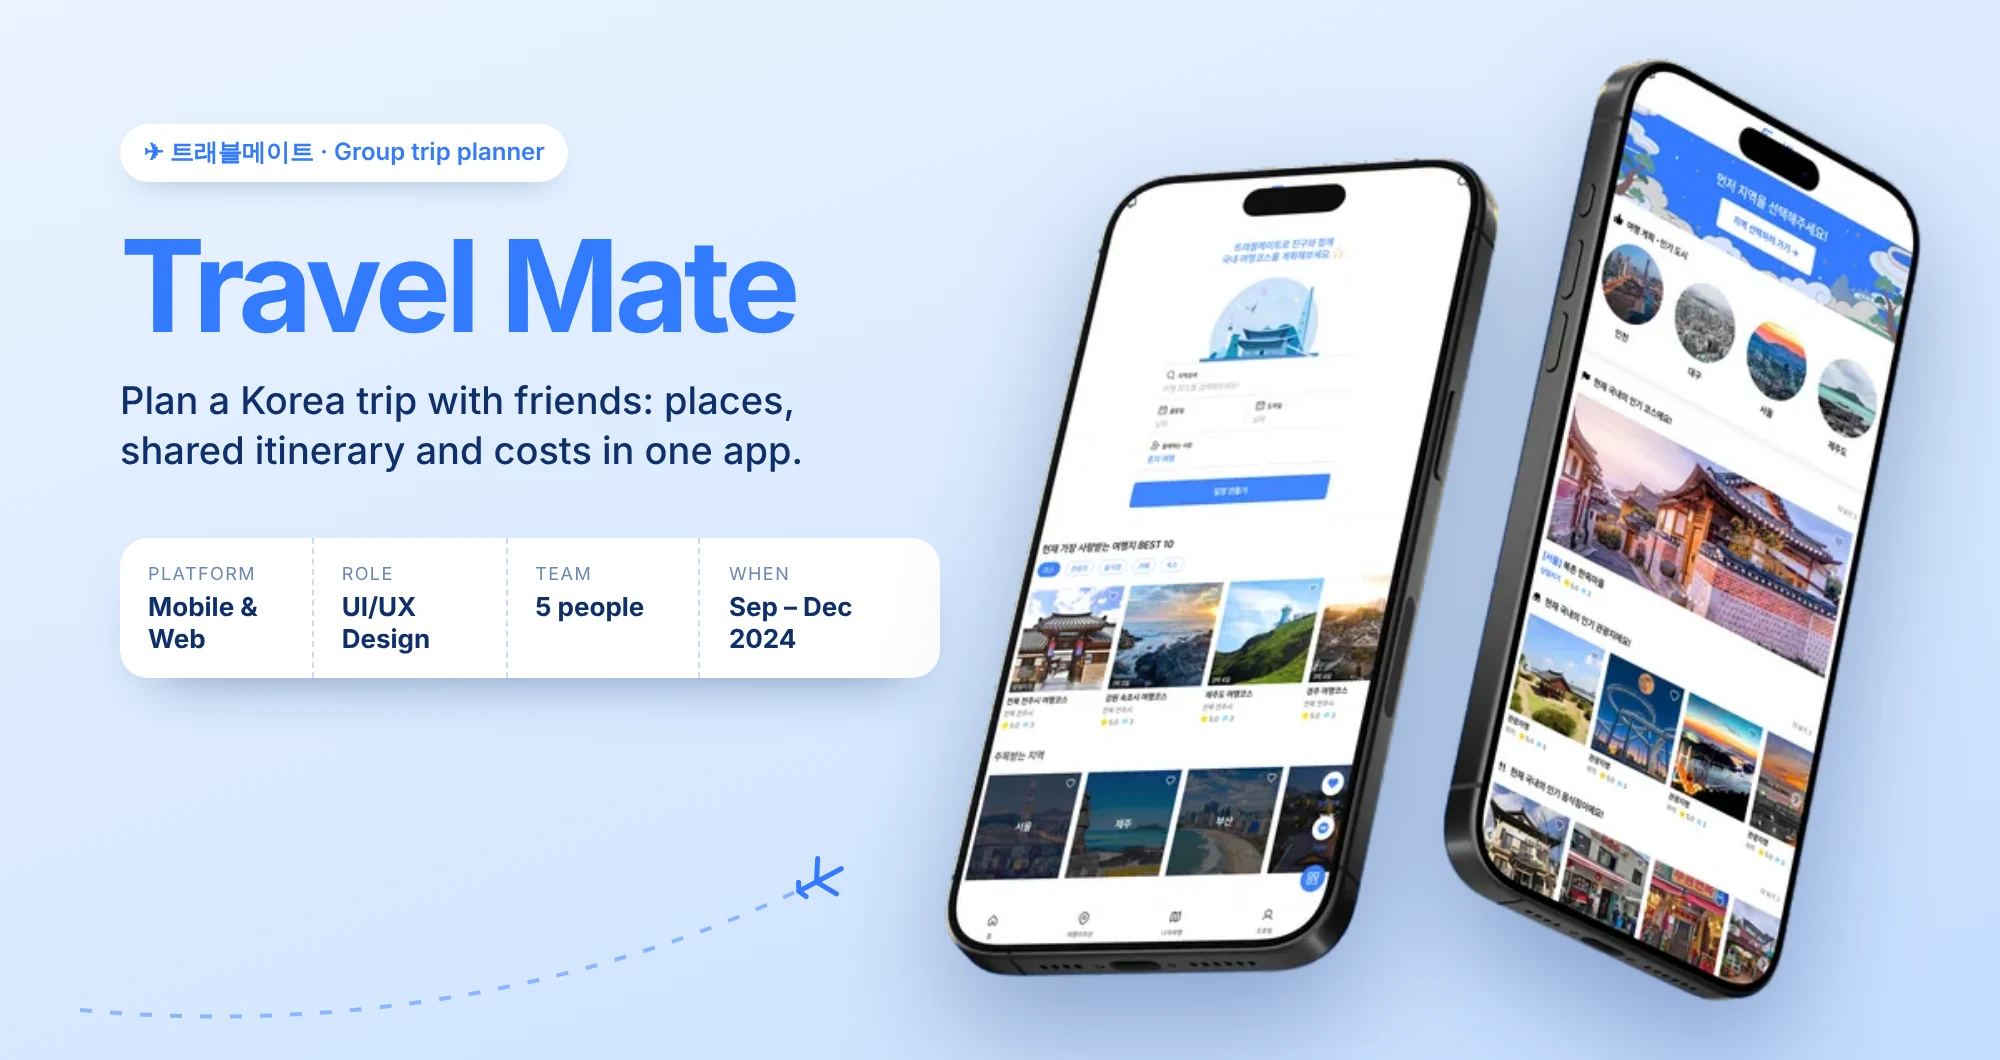
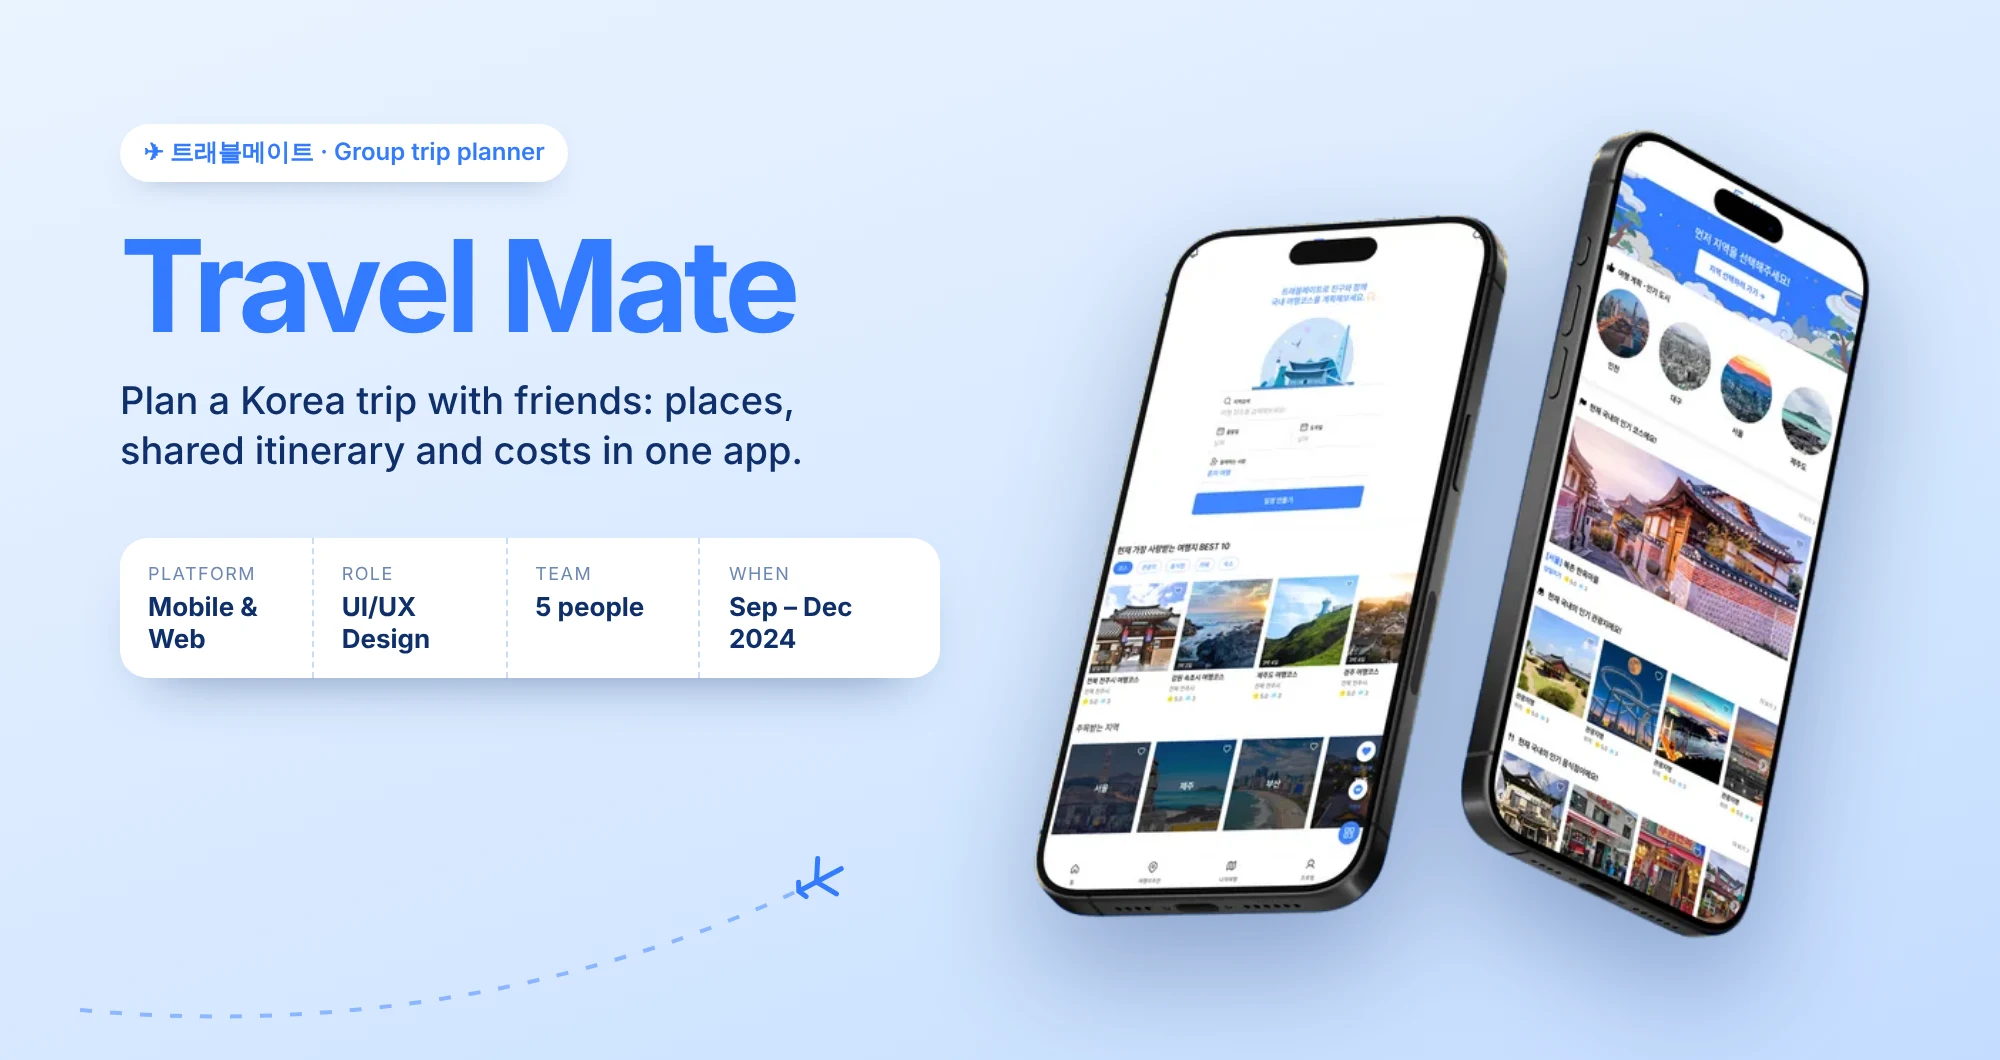
Shrink Travel Mate cover phones for better spacing
Claude-Session: https://claude.ai/code/session_01XrSCNk8CdZFL88DQkgrBgR

Changed region(s): [[0.465, 0.0311, 0.961, 0.9962]]

diff --git a/ux.html b/ux.html
@@ -27,7 +27,7 @@
 <main class="page page-page" id="ux">
 <div class="page-content">
 <header class="cs-head"><h1 class="cs-title">UX Design<span class="dot">.</span></h1><p class="cs-sub">Case studies in research, product design and building, from internships, leadership roles and team projects.</p></header>
-<div class="gproj-list gproj-list--stack"><a class="gproj" href="now-institute.html"><div class="gproj-cover gproj-cover--bleed" style="aspect-ratio:2000/1060"><img alt="Now Institute cover" loading="lazy" onerror="this.hidden=true" src="images/index/01-screenshot-2026-07-07-at-2.21.54pm.webp"/></div><div class="gproj-txt"><span class="gproj-n">(01)</span><h2 class="gproj-t">Now Institute</h2><p class="gproj-sub">Two websites for Morphosis Architects’ urban research wing</p><p class="gproj-d">Designed and vibe-coded Noto Now and the Now Institute site, from research on every project to two live launches.</p><dl class="gproj-meta"><dt>Year</dt><dd>May – Jul 2026</dd><dt>Role</dt><dd>UX Design Intern, Morphosis</dd><dt>Tools</dt><dd>Figma, Claude Code, Vercel</dd></dl><div class="gproj-strip" style="grid-template-columns:177.78fr 166.67fr"><img alt="" loading="lazy" src="images/now-institute/02-screenshot-2026-07-13-at-3.52.46pm.webp" style="aspect-ratio:1.7778"/><img alt="" loading="lazy" src="images/now-institute/04-notonow.png" style="aspect-ratio:1.6667"/></div><span class="gproj-go">View case study →</span></div></a><a class="gproj" href="hfes-stg.html"><div class="gproj-cover gproj-cover--bleed" style="aspect-ratio:2000/1000"><img alt="HFES STG cover" loading="lazy" onerror="this.hidden=true" src="images/index/cover-hfes-stg.webp"/></div><div class="gproj-txt"><span class="gproj-n">(02)</span><h2 class="gproj-t">HFES STG</h2><p class="gproj-sub">A website for the Sustainability Technical Group</p><p class="gproj-d">Led a volunteer team from a 200+ member survey through card sorting, testing and launch.</p><dl class="gproj-meta"><dt>Year</dt><dd>Aug 2025 – May 2026</dd><dt>Role</dt><dd>Website Lead</dd><dt>Methods</dt><dd>Survey, card sort, usability tests</dd></dl><div class="gproj-strip" style="grid-template-columns:196.46fr 133.78fr"><img alt="" loading="lazy" src="images/hfes-stg/04-screenshot-2026-03-27-at-3.34.46pm.png" style="aspect-ratio:1.9646"/><img alt="" loading="lazy" src="images/hfes-stg/06-wireframes.png" style="aspect-ratio:1.3378"/></div><span class="gproj-go">View case study →</span></div></a><a class="gproj" href="migrant-compass.html"><div class="gproj-cover gproj-cover--bleed" style="aspect-ratio:1920/940"><img alt="Migrant Compass cover" loading="lazy" onerror="this.hidden=true" src="images/index/05-title-page1.webp?v=2"/></div><div class="gproj-txt"><span class="gproj-n">(03)</span><h2 class="gproj-t">Migrant Compass</h2><p class="gproj-sub">Real-time guidance for migrants</p><p class="gproj-d">An offline-ready app giving migrants verified safety updates and resources, built at the IDEA Lab @ Fletcher.</p><dl class="gproj-meta"><dt>Year</dt><dd>Sep – Nov 2025</dd><dt>Role</dt><dd>UX research & design</dd><dt>Tools</dt><dd>Figma</dd></dl><div class="gproj-strip" style="grid-template-columns:50.96fr 51.02fr 51.02fr 45.40fr"><img alt="" loading="lazy" src="images/migrant-compass/06-migrant-compass-mobile-app-wireframe.png" style="aspect-ratio:0.5096"/><img alt="" loading="lazy" src="images/migrant-compass/15-migrant-compass-mobile-app-wireframe.png" style="aspect-ratio:0.5102"/><img alt="" loading="lazy" src="images/migrant-compass/19-w.png" style="aspect-ratio:0.5102"/><img alt="" loading="lazy" src="images/migrant-compass/21-4.png" style="aspect-ratio:0.4540"/></div><span class="gproj-go">View case study →</span></div></a><a class="gproj" href="travel-mate.html"><div class="gproj-cover gproj-cover--bleed" style="aspect-ratio:2000/1060"><img alt="Travel Mate cover" loading="lazy" onerror="this.hidden=true" src="images/index/cover-travel-mate.webp?v=4"/></div><div class="gproj-txt"><span class="gproj-n">(04)</span><h2 class="gproj-t">Travel Mate</h2><p class="gproj-sub">Group travel planning app</p><p class="gproj-d">Search, shared itineraries and expenses for planning a Korea trip with friends, designed with developers.</p><dl class="gproj-meta"><dt>Year</dt><dd>Sep – Dec 2024</dd><dt>Role</dt><dd>UX design, design system</dd><dt>Team</dt><dd>3 designers, 2 developers</dd></dl><div class="gproj-strip" style="grid-template-columns:83.95fr 78.85fr 134.05fr"><img alt="" loading="lazy" src="images/travel-mate/08-ia.png" style="aspect-ratio:0.8395"/><img alt="" loading="lazy" src="images/travel-mate/31-sheet-stay-dates.webp" style="aspect-ratio:0.7885"/><img alt="" loading="lazy" src="images/travel-mate/32-sheet-trip-dates.webp" style="aspect-ratio:1.3405"/></div><span class="gproj-go">View case study →</span></div></a><a class="gproj" href="trendy.html"><div class="gproj-cover gproj-cover--bleed" style="aspect-ratio:1500/734"><img alt="Trendy cover" loading="lazy" onerror="this.hidden=true" src="images/trendy/01-trendy.webp?v=2"/></div><div class="gproj-txt"><span class="gproj-n">(05)</span><h2 class="gproj-t">Trendy</h2><p class="gproj-sub">Beauty & fashion trend app</p><p class="gproj-d">A solo project taking a trend-shopping app from interviews and competitor research to brand and UI.</p><dl class="gproj-meta"><dt>Year</dt><dd>Jun – Aug 2024</dd><dt>Role</dt><dd>Solo designer</dd><dt>Methods</dt><dd>Interviews, journey map</dd></dl><div class="gproj-strip" style="grid-template-columns:196.42fr 167.52fr"><img alt="" loading="lazy" src="images/trendy/05-persona.webp?v=2" style="aspect-ratio:1.9642"/><img alt="" loading="lazy" src="images/trendy/10-final-screens.webp" style="aspect-ratio:1.6752"/></div><span class="gproj-go">View case study →</span></div></a></div>
+<div class="gproj-list gproj-list--stack"><a class="gproj" href="now-institute.html"><div class="gproj-cover gproj-cover--bleed" style="aspect-ratio:2000/1060"><img alt="Now Institute cover" loading="lazy" onerror="this.hidden=true" src="images/index/01-screenshot-2026-07-07-at-2.21.54pm.webp"/></div><div class="gproj-txt"><span class="gproj-n">(01)</span><h2 class="gproj-t">Now Institute</h2><p class="gproj-sub">Two websites for Morphosis Architects’ urban research wing</p><p class="gproj-d">Designed and vibe-coded Noto Now and the Now Institute site, from research on every project to two live launches.</p><dl class="gproj-meta"><dt>Year</dt><dd>May – Jul 2026</dd><dt>Role</dt><dd>UX Design Intern, Morphosis</dd><dt>Tools</dt><dd>Figma, Claude Code, Vercel</dd></dl><div class="gproj-strip" style="grid-template-columns:177.78fr 166.67fr"><img alt="" loading="lazy" src="images/now-institute/02-screenshot-2026-07-13-at-3.52.46pm.webp" style="aspect-ratio:1.7778"/><img alt="" loading="lazy" src="images/now-institute/04-notonow.png" style="aspect-ratio:1.6667"/></div><span class="gproj-go">View case study →</span></div></a><a class="gproj" href="hfes-stg.html"><div class="gproj-cover gproj-cover--bleed" style="aspect-ratio:2000/1000"><img alt="HFES STG cover" loading="lazy" onerror="this.hidden=true" src="images/index/cover-hfes-stg.webp"/></div><div class="gproj-txt"><span class="gproj-n">(02)</span><h2 class="gproj-t">HFES STG</h2><p class="gproj-sub">A website for the Sustainability Technical Group</p><p class="gproj-d">Led a volunteer team from a 200+ member survey through card sorting, testing and launch.</p><dl class="gproj-meta"><dt>Year</dt><dd>Aug 2025 – May 2026</dd><dt>Role</dt><dd>Website Lead</dd><dt>Methods</dt><dd>Survey, card sort, usability tests</dd></dl><div class="gproj-strip" style="grid-template-columns:196.46fr 133.78fr"><img alt="" loading="lazy" src="images/hfes-stg/04-screenshot-2026-03-27-at-3.34.46pm.png" style="aspect-ratio:1.9646"/><img alt="" loading="lazy" src="images/hfes-stg/06-wireframes.png" style="aspect-ratio:1.3378"/></div><span class="gproj-go">View case study →</span></div></a><a class="gproj" href="migrant-compass.html"><div class="gproj-cover gproj-cover--bleed" style="aspect-ratio:1920/940"><img alt="Migrant Compass cover" loading="lazy" onerror="this.hidden=true" src="images/index/05-title-page1.webp?v=2"/></div><div class="gproj-txt"><span class="gproj-n">(03)</span><h2 class="gproj-t">Migrant Compass</h2><p class="gproj-sub">Real-time guidance for migrants</p><p class="gproj-d">An offline-ready app giving migrants verified safety updates and resources, built at the IDEA Lab @ Fletcher.</p><dl class="gproj-meta"><dt>Year</dt><dd>Sep – Nov 2025</dd><dt>Role</dt><dd>UX research & design</dd><dt>Tools</dt><dd>Figma</dd></dl><div class="gproj-strip" style="grid-template-columns:50.96fr 51.02fr 51.02fr 45.40fr"><img alt="" loading="lazy" src="images/migrant-compass/06-migrant-compass-mobile-app-wireframe.png" style="aspect-ratio:0.5096"/><img alt="" loading="lazy" src="images/migrant-compass/15-migrant-compass-mobile-app-wireframe.png" style="aspect-ratio:0.5102"/><img alt="" loading="lazy" src="images/migrant-compass/19-w.png" style="aspect-ratio:0.5102"/><img alt="" loading="lazy" src="images/migrant-compass/21-4.png" style="aspect-ratio:0.4540"/></div><span class="gproj-go">View case study →</span></div></a><a class="gproj" href="travel-mate.html"><div class="gproj-cover gproj-cover--bleed" style="aspect-ratio:2000/1060"><img alt="Travel Mate cover" loading="lazy" onerror="this.hidden=true" src="images/index/cover-travel-mate.webp?v=5"/></div><div class="gproj-txt"><span class="gproj-n">(04)</span><h2 class="gproj-t">Travel Mate</h2><p class="gproj-sub">Group travel planning app</p><p class="gproj-d">Search, shared itineraries and expenses for planning a Korea trip with friends, designed with developers.</p><dl class="gproj-meta"><dt>Year</dt><dd>Sep – Dec 2024</dd><dt>Role</dt><dd>UX design, design system</dd><dt>Team</dt><dd>3 designers, 2 developers</dd></dl><div class="gproj-strip" style="grid-template-columns:83.95fr 78.85fr 134.05fr"><img alt="" loading="lazy" src="images/travel-mate/08-ia.png" style="aspect-ratio:0.8395"/><img alt="" loading="lazy" src="images/travel-mate/31-sheet-stay-dates.webp" style="aspect-ratio:0.7885"/><img alt="" loading="lazy" src="images/travel-mate/32-sheet-trip-dates.webp" style="aspect-ratio:1.3405"/></div><span class="gproj-go">View case study →</span></div></a><a class="gproj" href="trendy.html"><div class="gproj-cover gproj-cover--bleed" style="aspect-ratio:1500/734"><img alt="Trendy cover" loading="lazy" onerror="this.hidden=true" src="images/trendy/01-trendy.webp?v=2"/></div><div class="gproj-txt"><span class="gproj-n">(05)</span><h2 class="gproj-t">Trendy</h2><p class="gproj-sub">Beauty & fashion trend app</p><p class="gproj-d">A solo project taking a trend-shopping app from interviews and competitor research to brand and UI.</p><dl class="gproj-meta"><dt>Year</dt><dd>Jun – Aug 2024</dd><dt>Role</dt><dd>Solo designer</dd><dt>Methods</dt><dd>Interviews, journey map</dd></dl><div class="gproj-strip" style="grid-template-columns:196.42fr 167.52fr"><img alt="" loading="lazy" src="images/trendy/05-persona.webp?v=2" style="aspect-ratio:1.9642"/><img alt="" loading="lazy" src="images/trendy/10-final-screens.webp" style="aspect-ratio:1.6752"/></div><span class="gproj-go">View case study →</span></div></a></div>
 <footer class="site-foot" id="contact">
 <div class="foot-row"><span>Jasmine Kim, UI/UX &amp; Graphic Designer</span>
 <span class="foot-links"><a href="mailto:jasminekim535@gmail.com">Email ↗</a><a href="https://www.linkedin.com/in/jasmine-kim-22838a339/" rel="noopener" target="_blank">LinkedIn ↗</a><a href="https://drive.google.com/file/d/1OOqGdKUFcIr9i4K3hlURFipVqCy_xz__/view?usp=sharing" rel="noopener" target="_blank">Resume ↗</a></span></div>

diff --git a/index.html b/index.html
@@ -32,7 +32,7 @@
 </header>
 <section aria-label="UX case studies" class="rsec" id="work">
 <div class="rsec-head"><h2 class="rsec-title">UX Design</h2><a class="pill" href="ux.html">See all projects</a></div>
-<div class="wkgrid wkgrid--feat"><a class="wk" href="now-institute.html"><div class="wk-img" style="aspect-ratio:2000/1060"><img alt="Now Institute cover" loading="lazy" onerror="this.hidden=true" onload="this.parentNode.style.aspectRatio='auto'" src="images/index/01-screenshot-2026-07-07-at-2.21.54pm.webp"/></div><h3 class="wk-title">Now Institute</h3><p class="wk-sub">Website Design for Morphosis</p><ul class="chips"><li>Vibe Coding</li><li>AI Tools</li><li>Prototyping</li><li>Internship</li></ul></a><a class="wk" href="hfes-stg.html"><div class="wk-img" style="aspect-ratio:2000/999"><img alt="HFES STG cover" loading="lazy" onerror="this.hidden=true" onload="this.parentNode.style.aspectRatio='auto'" src="images/index/cover-hfes-stg.webp"/></div><h3 class="wk-title">HFES STG</h3><p class="wk-sub">A website for the technical group</p><ul class="chips"><li>Leadership</li><li>Non-profit</li><li>Usability Testing</li></ul></a><a class="wk" href="migrant-compass.html"><div class="wk-img" style="aspect-ratio:1920/940"><img alt="Migrant Compass cover" loading="lazy" onerror="this.hidden=true" onload="this.parentNode.style.aspectRatio='auto'" src="images/index/05-title-page1.webp?v=2"/></div><h3 class="wk-title">Migrant Compass</h3><p class="wk-sub">Real-time guidance for migrants</p><ul class="chips"><li>Problem-solving</li><li>Teamwork</li></ul></a><a class="wk" href="travel-mate.html"><div class="wk-img" style="aspect-ratio:1500/739"><img alt="Travel Mate cover" loading="lazy" onerror="this.hidden=true" onload="this.parentNode.style.aspectRatio='auto'" src="images/index/cover-travel-mate.webp?v=4"/></div><h3 class="wk-title">Travel Mate</h3><p class="wk-sub">Group travel planning app</p><ul class="chips"><li>App Design</li><li>Cross-functional Teamwork</li></ul></a><a class="wk" href="trendy.html"><div class="wk-img" style="aspect-ratio:1500/734"><img alt="Trendy cover" loading="lazy" onerror="this.hidden=true" onload="this.parentNode.style.aspectRatio='auto'" src="images/trendy/01-trendy.webp?v=2"/></div><h3 class="wk-title">Trendy</h3><p class="wk-sub">Beauty &amp; fashion trend app</p><ul class="chips"><li>App Design</li><li>Logo Design</li><li>User Research</li></ul></a></div>
+<div class="wkgrid wkgrid--feat"><a class="wk" href="now-institute.html"><div class="wk-img" style="aspect-ratio:2000/1060"><img alt="Now Institute cover" loading="lazy" onerror="this.hidden=true" onload="this.parentNode.style.aspectRatio='auto'" src="images/index/01-screenshot-2026-07-07-at-2.21.54pm.webp"/></div><h3 class="wk-title">Now Institute</h3><p class="wk-sub">Website Design for Morphosis</p><ul class="chips"><li>Vibe Coding</li><li>AI Tools</li><li>Prototyping</li><li>Internship</li></ul></a><a class="wk" href="hfes-stg.html"><div class="wk-img" style="aspect-ratio:2000/999"><img alt="HFES STG cover" loading="lazy" onerror="this.hidden=true" onload="this.parentNode.style.aspectRatio='auto'" src="images/index/cover-hfes-stg.webp"/></div><h3 class="wk-title">HFES STG</h3><p class="wk-sub">A website for the technical group</p><ul class="chips"><li>Leadership</li><li>Non-profit</li><li>Usability Testing</li></ul></a><a class="wk" href="migrant-compass.html"><div class="wk-img" style="aspect-ratio:1920/940"><img alt="Migrant Compass cover" loading="lazy" onerror="this.hidden=true" onload="this.parentNode.style.aspectRatio='auto'" src="images/index/05-title-page1.webp?v=2"/></div><h3 class="wk-title">Migrant Compass</h3><p class="wk-sub">Real-time guidance for migrants</p><ul class="chips"><li>Problem-solving</li><li>Teamwork</li></ul></a><a class="wk" href="travel-mate.html"><div class="wk-img" style="aspect-ratio:1500/739"><img alt="Travel Mate cover" loading="lazy" onerror="this.hidden=true" onload="this.parentNode.style.aspectRatio='auto'" src="images/index/cover-travel-mate.webp?v=5"/></div><h3 class="wk-title">Travel Mate</h3><p class="wk-sub">Group travel planning app</p><ul class="chips"><li>App Design</li><li>Cross-functional Teamwork</li></ul></a><a class="wk" href="trendy.html"><div class="wk-img" style="aspect-ratio:1500/734"><img alt="Trendy cover" loading="lazy" onerror="this.hidden=true" onload="this.parentNode.style.aspectRatio='auto'" src="images/trendy/01-trendy.webp?v=2"/></div><h3 class="wk-title">Trendy</h3><p class="wk-sub">Beauty &amp; fashion trend app</p><ul class="chips"><li>App Design</li><li>Logo Design</li><li>User Research</li></ul></a></div>
 </section>
 <section aria-label="Graphic and art" class="rsec" id="designs">
 <div class="rsec-head"><h2 class="rsec-title">Graphic &amp; Art</h2><a class="pill" href="designs.html">See all projects</a></div>
